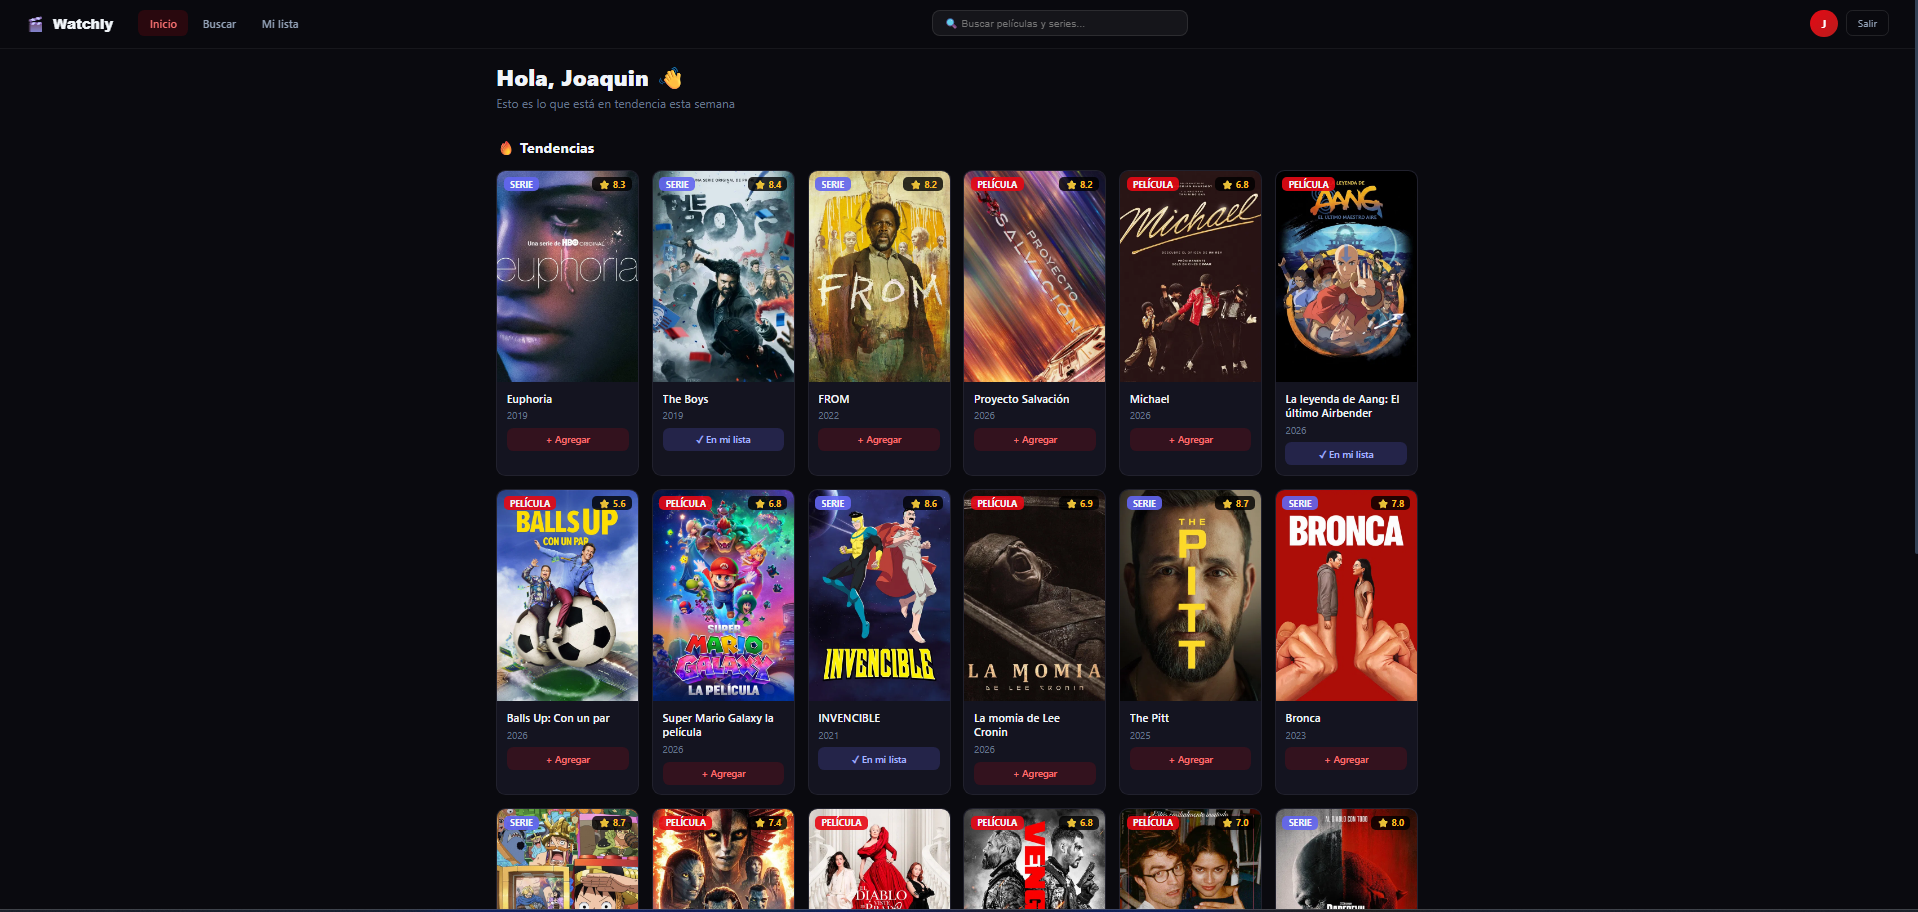
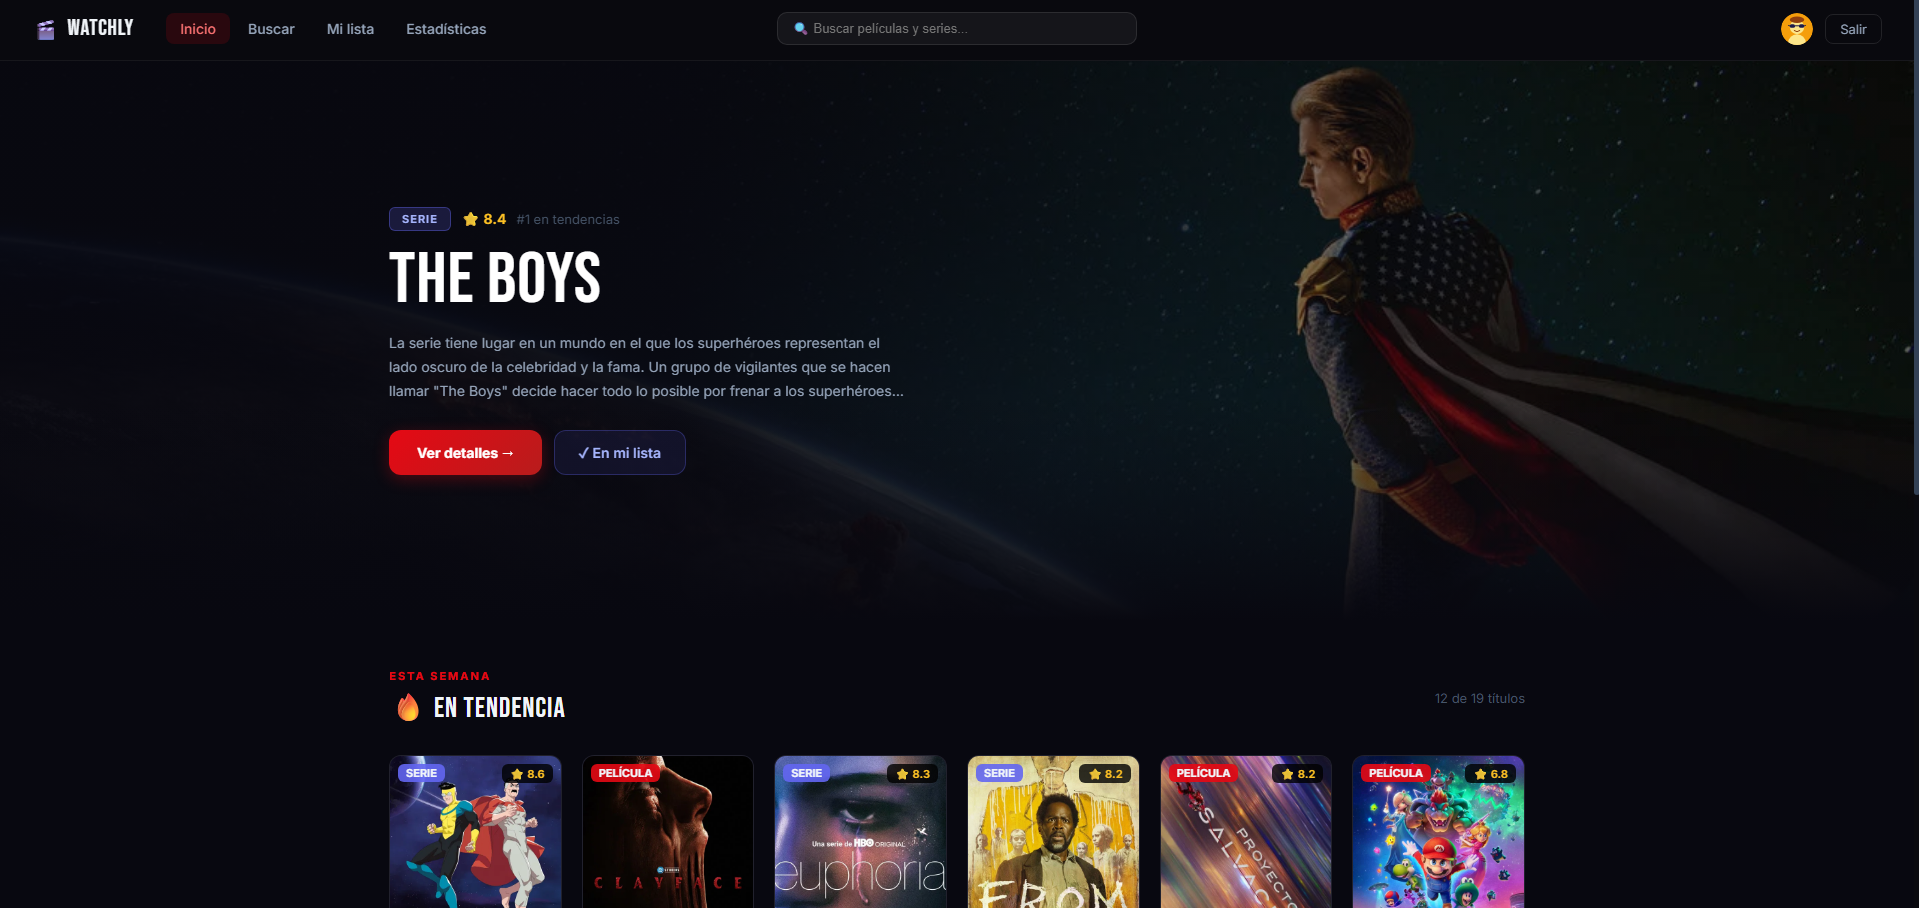
docs: README final con screenshots actualizadas

diff --git a/README.md b/README.md
@@ -12,7 +12,7 @@ Buscá, guardá y organizá todo el contenido que querés ver — en un solo lug
 [![Docker](https://img.shields.io/badge/Docker-Compose-2496ED?style=flat-square&logo=docker&logoColor=white)](https://www.docker.com/)
 [![TMDB](https://img.shields.io/badge/TMDB-API-01D277?style=flat-square&logo=themoviedatabase&logoColor=white)](https://www.themoviedb.org/)
 
-[Ver demo](#) · [Reportar un bug](https://github.com/joakol119/Watchly/issues)
+[Ver demo](https://watchly-lime.vercel.app) · [Reportar un bug](https://github.com/joakol119/Watchly/issues)
 
 </div>
 
@@ -23,20 +23,24 @@ Buscá, guardá y organizá todo el contenido que querés ver — en un solo lug
 ![Landing](screenshots/landing.png)
 ![Home](screenshots/home.png)
 ![Búsqueda](screenshots/search.png)
+![Detalle](screenshots/detail.png)
 ![Mi lista](screenshots/list.png)
+![Perfil](screenshots/profile.png)
+![Estadísticas](screenshots/stats.png)
 
 ---
 
 ## ✨ Características
 
-- 🔐 **Autenticación** — Registro e inicio de sesión con JWT
-- 🔥 **Tendencias** — Películas y series más populares de la semana en tiempo real
-- 🔍 **Búsqueda** — Encontrá cualquier título al instante usando la base de datos de TMDB
+- 🔐 **Autenticación** — Registro e inicio de sesión con JWT y confirmación de contraseña
+- 🔥 **Tendencias** — Películas y series más populares de la semana con hero featured
+- 🔍 **Búsqueda** — Búsqueda por título, filtrado por géneros, película/serie al azar con puntuación mínima
 - 🎭 **Detalle completo** — Sinopsis, reparto, calificación, trailer y títulos similares
-- 📋 **Watchlist personal** — Guardá títulos y organizalos en tres estados:
-  - *Quiero ver*
-  - *Viendo*
-  - *Visto*
+- 📋 **Watchlist personal** — Guardá, organizá con drag & drop y filtrá por estado
+- ⭐ **Calificación propia** — Ponele tu nota del 1 al 10 a lo que ya viste
+- 📊 **Estadísticas** — Tiempo total visto, géneros favoritos, distribución de contenido
+- 👤 **Perfil** — Editá tu nombre, elegí tu personaje avatar y cambiá tu contraseña
+- 🔔 **Notificaciones** — Toast notifications en todas las acciones
 
 ---
 
@@ -50,6 +54,7 @@ Buscá, guardá y organizá todo el contenido que querés ver — en un solo lug
 | Autenticación | JWT + bcryptjs |
 | API externa | TMDB (The Movie Database) |
 | Infraestructura | Docker Compose |
+| Deploy | Vercel (frontend) + Railway (backend + DB) |
 
 ---
 
@@ -108,34 +113,42 @@ docker compose up --build
 watchly/
 ├── docker-compose.yml
 ├── .env.example
+├── screenshots/
 ├── backend/
 │   ├── Dockerfile
 │   ├── package.json
 │   └── src/
-│       ├── index.js          # Entry point + configuración Express
-│       ├── db.js             # Conexión y setup de PostgreSQL
+│       ├── index.js
+│       ├── db.js
 │       ├── middleware/
-│       │   └── auth.js       # Middleware de autenticación JWT
+│       │   └── auth.js
 │       └── routes/
-│           ├── auth.js       # POST /auth/register, POST /auth/login
-│           ├── watchlist.js  # CRUD /watchlist
-│           └── tmdb.js       # Proxy hacia TMDB API
+│           ├── auth.js
+│           ├── watchlist.js
+│           ├── tmdb.js
+│           ├── profile.js
+│           └── stats.js
 └── frontend/
     ├── Dockerfile
     ├── package.json
     ├── lib/
-    │   └── api.js            # Cliente HTTP centralizado
+    │   └── api.js
     ├── components/
     │   ├── Navbar.js
-    │   └── MediaCard.js
+    │   ├── MediaCard.js
+    │   ├── Avatar.js
+    │   ├── StarRating.js
+    │   └── Toast.js
     └── app/
-        ├── page.js           # Landing page
-        ├── home/             # Tendencias
-        ├── login/            # Login y registro
-        ├── search/           # Búsqueda
-        ├── watchlist/        # Lista personal
-        ├── movie/[id]/       # Detalle de película
-        └── tv/[id]/          # Detalle de serie
+        ├── page.js
+        ├── home/
+        ├── login/
+        ├── search/
+        ├── watchlist/
+        ├── stats/
+        ├── profile/
+        ├── movie/[id]/
+        └── tv/[id]/
 ```
 
 ---
@@ -153,7 +166,8 @@ watchly/
 |--------|------|-------------|
 | GET | `/watchlist` | Obtener lista del usuario |
 | POST | `/watchlist` | Agregar título |
-| PATCH | `/watchlist/:id` | Actualizar estado |
+| PATCH | `/watchlist/reorder` | Reordenar lista |
+| PATCH | `/watchlist/:id` | Actualizar estado o calificación |
 | DELETE | `/watchlist/:id` | Eliminar título |
 
 ### TMDB *(requiere token)*
@@ -161,8 +175,22 @@ watchly/
 |--------|------|-------------|
 | GET | `/tmdb/trending` | Tendencias de la semana |
 | GET | `/tmdb/search?q=` | Buscar títulos |
+| GET | `/tmdb/random?type=` | Título al azar |
 | GET | `/tmdb/movie/:id` | Detalle de película |
 | GET | `/tmdb/tv/:id` | Detalle de serie |
+
+### Perfil *(requiere token)*
+| Método | Ruta | Descripción |
+|--------|------|-------------|
+| GET | `/profile` | Obtener perfil |
+| PATCH | `/profile/name` | Actualizar nombre |
+| PATCH | `/profile/avatar` | Actualizar avatar |
+| PATCH | `/profile/password` | Cambiar contraseña |
+
+### Estadísticas *(requiere token)*
+| Método | Ruta | Descripción |
+|--------|------|-------------|
+| GET | `/stats` | Estadísticas de la watchlist |
 
 ---
 
